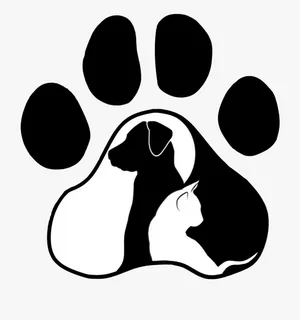
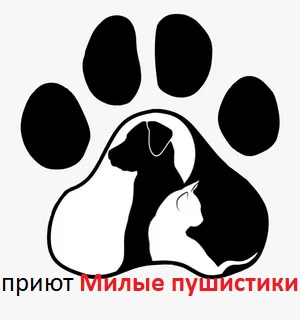
переделала тест. исправила анотации

Changed region(s): [[0.0, 0.8438, 1.0, 0.9375]]

diff --git a/src/main/java/pro/sky/command/service/handler/HandlerCallbackQuery.java b/src/main/java/pro/sky/command/service/handler/HandlerCallbackQuery.java
@@ -9,6 +9,8 @@ import pro.sky.command.service.CheckedService;
 import pro.sky.command.service.KeyboardMakerService;
 import pro.sky.command.service.SendMessageService;
 
+import java.util.ArrayList;
+import java.util.Arrays;
 import java.util.List;
 
 import static pro.sky.command.constants.BotMessageEnum.*;
@@ -53,6 +55,10 @@ public class HandlerCallbackQuery {
         long chatId = update.getCallbackQuery().getMessage().getChatId();
 
         switch (callbackData) {
+            case "START":
+                log.debug("вызваа команда /START");
+                return service.sendMessage(chatId, "вы можете посмотреть информацию о приютах ", keyboardMaker.shelterKeyboard());
+
             case "CAT_SHELTER":
 
                 log.debug("вызваа команда /CAT_SHELTER");
@@ -99,36 +105,39 @@ public class HandlerCallbackQuery {
             //Меню взять питомца
             case "RULES_SHELTER":
                 log.debug("вызваа команда /RULES_SHELTER");
-                //здесь вставить метод для отправки файла
-                return service.sendMessageWithReplaceKeyboard(chatId, RULES_SHELTER.getMessage(), messageId, keyboardMaker.takePetKeyboard(chatId));
+                return new ArrayList<>(Arrays.asList(service.sendMessageWithReplaceKeyboard(chatId, RULES_SHELTER.getMessage(), messageId, keyboardMaker.takePetKeyboard(chatId)),
+                        service.sendPhoto(chatId, RULES_SHELTER,null, null)));
             case "DOCUMENTS":
                 log.debug("вызваа команда /DOCUMENTS");
-                //здесь вставить метод для отправки файла
-                return service.sendMessageWithReplaceKeyboard(chatId, DOCUMENTS.getMessage(), messageId, keyboardMaker.takePetKeyboard(chatId));
+                return new ArrayList<>(Arrays.asList(service.sendMessageWithReplaceKeyboard(chatId, DOCUMENTS.getMessage(), messageId, keyboardMaker.takePetKeyboard(chatId)),
+                        service.sendPhoto(chatId, DOCUMENTS,null, null)));
             case "TRANSPORTATION":
                 log.debug("вызваа команда /TRANSPORTATION");
-                //здесь вставить метод для отправки файла
-                return service.sendMessageWithReplaceKeyboard(chatId, TRANSPORTATION.getMessage(), messageId, keyboardMaker.takePetKeyboard(chatId));
+                return new ArrayList<>(Arrays.asList(service.sendMessageWithReplaceKeyboard(chatId, TRANSPORTATION.getMessage(), messageId, keyboardMaker.takePetKeyboard(chatId)),
+                        service.sendPhoto(chatId, TRANSPORTATION,null, null)));
             case "DOG_HANDLERS":
                 log.debug("вызваа команда /DOG_HANDLERS");
-                //здесь вставить метод для отправки файла
-                return service.sendMessageWithReplaceKeyboard(chatId, DOG_HANDLERS.getMessage(), messageId, keyboardMaker.takePetKeyboard(chatId));
+                return new ArrayList<>(Arrays.asList(service.sendMessageWithReplaceKeyboard(chatId, DOG_HANDLERS.getMessage(), messageId, keyboardMaker.takePetKeyboard(chatId)),
+                        service.sendPhoto(chatId, DOG_HANDLERS,null, null)));
             case "REASONS_REFUSAL":
                 log.debug("вызваа команда /REASONS_REFUSAL");
-                //здесь вставить метод для отправки файла
-                return service.sendMessageWithReplaceKeyboard(chatId, REASONS_REFUSAL.getMessage(), messageId, keyboardMaker.takePetKeyboard(chatId));
+                return new ArrayList<>(Arrays.asList(service.sendMessageWithReplaceKeyboard(chatId, REASONS_REFUSAL.getMessage(), messageId, keyboardMaker.takePetKeyboard(chatId)),
+                        service.sendPhoto(chatId, REASONS_REFUSAL, null, null)));
             case "SETTLE":
                 log.debug("вызваа команда /SETTLE");
                 return service.sendMessageWithReplaceKeyboard(chatId, SETTLE.getMessage(), messageId, keyboardMaker.settleKeyboard());
             case "LITTLE_PET":
                 log.debug("вызваа команда /LITTLE_PET");
-                return service.sendMessageWithReplaceKeyboard(chatId, LITTLE_PET.getMessage(), messageId, keyboardMaker.takePetKeyboard(chatId));
+                return new ArrayList<>(Arrays.asList(service.sendMessageWithReplaceKeyboard(chatId, LITTLE_PET.getMessage(), messageId, keyboardMaker.takePetKeyboard(chatId)),
+                        service.sendPhoto(chatId, LITTLE_PET, null, null)));
             case "BIG_PET":
                 log.debug("вызваа команда /BIG_PET");
-                return service.sendMessageWithReplaceKeyboard(chatId, BIG_PET.getMessage(), messageId, keyboardMaker.takePetKeyboard(chatId));
+                return new ArrayList<>(Arrays.asList(service.sendMessageWithReplaceKeyboard(chatId, BIG_PET.getMessage(), messageId, keyboardMaker.takePetKeyboard(chatId)),
+                        service.sendPhoto(chatId, BIG_PET, null, null)));
             case "DISABILITY_PET":
                 log.debug("вызваа команда /DISABILITY_PET");
-                return service.sendMessageWithReplaceKeyboard(chatId, DISABILITY_PET.getMessage(), messageId, keyboardMaker.takePetKeyboard(chatId));
+                return new ArrayList<>(Arrays.asList(service.sendMessageWithReplaceKeyboard(chatId, DISABILITY_PET.getMessage(), messageId, keyboardMaker.takePetKeyboard(chatId)),
+                        service.sendPhoto(chatId, DISABILITY_PET, null, null)));
 
             case "PHOTO":
                 log.debug("вызваа команда /PHOTO");
@@ -151,21 +160,22 @@ public class HandlerCallbackQuery {
                     return service.sendMessage(chatId, BEHAVIOR.getMessage(), keyboardMaker.reportKeyboard());
                 }
 
-                return service.sendMessage(chatId,"Пользователь с таким номером не найден. Обратитесь к волантеру.", keyboardMaker.reportKeyboard());
+                return service.sendMessage(chatId, "Пользователь с таким номером не найден. Обратитесь к волантеру.", keyboardMaker.reportKeyboard());
             case "TEST_PERIOD":
                 log.debug("вызваа команда /TEST_PERIOD");
-               List<String> count = checkedService.getReportCount(chatId);
-                if (count==null){
-                    return service.sendMessage(chatId, " Ознакомьтесь с информацией о тестовом периоде.\n   "+
-                            TEST_PERIOD.getMessage()+"\n оставшийся тестовый период не удалось получить." +
+                List<String> count = checkedService.getReportCount(chatId);
+                if (count == null) {
+                    return service.sendMessage(chatId, " Ознакомьтесь с информацией о тестовом периоде.\n   " +
+                            TEST_PERIOD.getMessage() + "\n оставшийся тестовый период не удалось получить." +
                             " Если вы зарегистрированы и взяли питомца обратитесь к волонтерам и опишите проблему. ", keyboardMaker.reportKeyboard());
                 }
-                StringBuilder answer =new StringBuilder("\n Вам осталось прислать " );
-                for (String s:count) {
+                StringBuilder answer = new StringBuilder("\n Вам осталось прислать ");
+                for (String s : count) {
                     answer.append(s);
-                }answer.append(" Верно заполненных и подтвержденных отчетов. Если вы обнаружили не точность сообщите волонтеру.");
+                }
+                answer.append(" Верно заполненных и подтвержденных отчетов. Если вы обнаружили не точность сообщите волонтеру.");
 
-                return service.sendMessage(chatId, TEST_PERIOD.getMessage()+answer , keyboardMaker.reportKeyboard());
+                return service.sendMessage(chatId, TEST_PERIOD.getMessage() + answer, keyboardMaker.reportKeyboard());
             default:
                 return service.sendMessage(chatId, "Извините, данная команда пока не поддерживается.", keyboardMaker.startKeyboard());
         }

diff --git a/src/main/java/pro/sky/command/service/handler/HandlerMessages.java b/src/main/java/pro/sky/command/service/handler/HandlerMessages.java
@@ -6,6 +6,7 @@ import org.telegram.telegrambots.meta.api.methods.CopyMessage;
 import org.telegram.telegrambots.meta.api.objects.Message;
 import pro.sky.command.constants.Const;
 import pro.sky.command.model.Notification;
+import pro.sky.command.model.Owner;
 import pro.sky.command.repository.NotificationRepository;
 import pro.sky.command.service.*;
 
@@ -54,6 +55,9 @@ public class HandlerMessages {
 
         if (text.equals(START.getNameButton())) {
             checkedService.clearPressButton(chatId);
+            if (checkedService.isOwnerHavePet(chatId)) {
+                return service.sendMessage(chatId, "Вы можете отправить отчет о питомце или посмотреть информацию о приютах", keyboardMaker.startKeyboardForRegistered());
+            }
             return service.sendMessage(chatId, START.getMessage(), keyboardMaker.startKeyboard());
         }
 
@@ -87,53 +91,46 @@ public class HandlerMessages {
         }
 
 
+        if (checkedService.checkReportPress(chatId)) {
+            int firstDelimiter = text.indexOf(' ');
+            String dataReport = " ";
+            String petId = " ";
+            if (firstDelimiter > 0) {
+                dataReport = text.substring(0, firstDelimiter);
+                text = text.substring(firstDelimiter + 1);
+            }
+            int secondDelimiter = text.indexOf(' ');
+            if (secondDelimiter > 0) {
+                petId = text.substring(0, secondDelimiter);
+                text = text.substring(secondDelimiter + 1);
+            }
+            if (dataReport.matches(Const.PATTERN_DATA) & petId.matches(Const.PATTERN_PET_ID)) {
+                return service.sendMessage(chatId, reportService.addReport(chatId, dataReport, petId, text), keyboardMaker.reportKeyboard());
+            }
+        }
 
-        if(checkedService.checkReportPress(chatId))
 
-    {
-        int firstDelimiter = text.indexOf(' ');
-        String dataReport = " ";
-        String petId = " ";
-        if (firstDelimiter > 0) {
-            dataReport = text.substring(0, firstDelimiter);
-            text = text.substring(firstDelimiter + 1);
+        if (checkedService.checkVolunteerButtonPress(chatId)) {
+            text = message.getFrom().getFirstName() + " идентификатор(номер чата) " + chatId + " спрашивает:   \n\n" + text;
+            notificationRepository.save(new Notification(chatId, text, messageId));
+            return service.sendMessage(Const.VOLUNTEER_CHAT_ID, text, null);
         }
-        int secondDelimiter = text.indexOf(' ');
-        if (secondDelimiter > 0) {
-            petId = text.substring(0, secondDelimiter);
-            text = text.substring(secondDelimiter + 1);
+        if (chatId.equals(Const.VOLUNTEER_CHAT_ID)) {
+            String textNotification = message.getReplyToMessage().getText();
+            Notification notification = notificationRepository.findByText(textNotification);
+            if (notification != null) {
+                notificationRepository.delete(notification);
+                return CopyMessage.builder()
+                        .messageId(messageId)
+                        .replyToMessageId(notification.getMessageId())
+                        .fromChatId(chatId)
+                        .chatId(notification.getId())
+                        .caption(text)
+                        .build();
+            }
         }
-        if (dataReport.matches(Const.PATTERN_DATA) & petId.matches(Const.PATTERN_PET_ID)) {
-            return service.sendMessage(chatId, reportService.addReport(chatId, dataReport, petId, text), keyboardMaker.reportKeyboard());
-        }
+
+        return service.sendMessage(chatId, " \"подтверждено\" или \"отклонено\"Бот понимает сообщения только в определенном формате." +
+                " При нажатии кнопки, вы можете посмотреть, что от вас ожидает бот. Начните с нажатия кнопки главное меню.", null);
     }
-
-
-        if(checkedService.checkVolunteerButtonPress(chatId))
-
-    {
-        text = message.getFrom().getFirstName() + " идентификатор(номер чата) " + chatId + " спрашивает:   \n\n" + text;
-        notificationRepository.save(new Notification(chatId, text, messageId));
-        return service.sendMessage(Const.VOLUNTEER_CHAT_ID, text, null);
-    }
-        if(chatId.equals(Const.VOLUNTEER_CHAT_ID))
-
-    {
-        String textNotification = message.getReplyToMessage().getText();
-        Notification notification = notificationRepository.findByText(textNotification);
-        if (notification != null) {
-            notificationRepository.delete(notification);
-            return CopyMessage.builder()
-                    .messageId(messageId)
-                    .replyToMessageId(notification.getMessageId())
-                    .fromChatId(chatId)
-                    .chatId(notification.getId())
-                    .caption(text)
-                    .build();
-        }
-    }
-
-        return service.sendMessage(chatId," \"подтверждено\" или \"отклонено\"Бот понимает сообщения только в определенном формате."+
-            " При нажатии кнопки, вы можете посмотреть, что от вас ожидает бот. Начните с нажатия кнопки главное меню.",null);
-}
 }

diff --git a/src/main/java/pro/sky/command/constants/BotMessageEnum.java b/src/main/java/pro/sky/command/constants/BotMessageEnum.java
@@ -10,11 +10,14 @@ public enum BotMessageEnum {
     HELP_MESSAGE("""
 
               Я бот Приюта для животных. Я расскажу Вам о приюте или помогу связаться с волонтерами.
+              
+                Помните выбрать любимца нельзя по фото, а можно только при личном общении.
+                 Поэтому наш бот не сможет заменить визит в питомник, а только лишь поможет узнать о приюте и его правилах.
 
             """, ""),
 
     START(" \"✅ Для дальнейшей работы выберите  хотите вы узнать о приюте кошек или собак.\n\n" +
-            "Воспользуйтесь клавиатурой, чтобы начать  \uD83D\uDC47", "Главное меню"),
+                      "Воспользуйтесь клавиатурой, чтобы начать  \uD83D\uDC47", "Главное меню"),
 
     CALL_VOLUNTEER("Ваш запрос важен для нас.\n" +
             "Напишите сообщением свой вопрос волонтеру."
@@ -48,7 +51,7 @@ public enum BotMessageEnum {
             "- *Изменение в поведении: отказ от старых привычек, приобретение новых*", "Отчет о питомце"),
 
     //меню информации о приюте
-    SHELTER_INFO("Вы можете почитать про наш приют", "Инфо"),
+    SHELTER_INFO("Вы можете почитать более подробную информацию о нашем приюте.", "Подробная информация"),
     SHELTER_DATA("вы можете посмотреть график работы и как нас найти", "график  работы и контакты"),
     TAKE_PASS("Напишите в чат сообщение где будет содержаться краткая информация о транспортном средстве. Волонтер свяжется с вами если информация будет не полной.\n" +
             "Если вы хотите запросить звонок отошлите в чат номер телефона\n без специальных знаков. Просто 11 цифр начиная с 8\n\n" +

diff --git a/src/test/java/pro/sky/command/controller/PetControllerTest.java b/src/test/java/pro/sky/command/controller/PetControllerTest.java
@@ -1,51 +1,29 @@
 package pro.sky.command.controller;
 
+import io.swagger.v3.oas.annotations.OpenAPIDefinition;
 import org.junit.Before;
 import org.junit.jupiter.api.Test;
-import org.junit.runner.RunWith;
-import org.mockito.Mock;
-import org.springframework.beans.factory.annotation.Autowired;
-import org.springframework.boot.test.autoconfigure.web.servlet.WebMvcTest;
 import org.springframework.boot.test.context.SpringBootTest;
 import org.springframework.http.MediaType;
-import org.springframework.test.context.junit4.SpringRunner;
-import org.springframework.test.web.servlet.MockMvc;
-import org.springframework.test.web.servlet.MvcResult;
+import org.springframework.test.annotation.DirtiesContext;
 import org.springframework.test.web.servlet.RequestBuilder;
 import org.springframework.test.web.servlet.request.MockMvcRequestBuilders;
-import org.springframework.test.web.servlet.setup.MockMvcBuilders;
-import pro.sky.command.repository.PetRepository;
-import pro.sky.command.service.PetService;
+@DirtiesContext(classMode = DirtiesContext.ClassMode.BEFORE_CLASS)
+@SpringBootTest(webEnvironment = SpringBootTest.WebEnvironment.RANDOM_PORT)
 
-import static org.springframework.test.web.servlet.result.MockMvcResultMatchers.status;
-
-@SpringBootTest
-@RunWith(SpringRunner.class)
-@WebMvcTest(PetController.class)
+@OpenAPIDefinition
 public class PetControllerTest {
-    @Autowired
-    private MockMvc mockMvc;
-    @Autowired
-    private PetRepository repository;
 
-    @Mock
-    private PetService petServiceMock;
 
-    @Before
-    public void setup() {
-        this.mockMvc = MockMvcBuilders.standaloneSetup(new PetController(petServiceMock)).build();
-    }
 
     @Test
-    public void ShouldReturnAddedPetEntry() throws Exception {
+    public void ShouldReturnAddedPetEntry(){
         RequestBuilder request = MockMvcRequestBuilders
                 .post("/")
                 .accept(MediaType.APPLICATION_JSON)
                 .content("{\"id\":1,\"name_pet\":\"Bob\",\"kind\":dog,\"owner_id\":1015168334}")
                 .contentType(MediaType.APPLICATION_JSON);
 
-        MvcResult result = mockMvc.perform(request)
-                .andExpect(status().isOk()).andReturn();
 
     }
     @Test

diff --git a/src/main/java/pro/sky/command/service/VolunteerService.java b/src/main/java/pro/sky/command/service/VolunteerService.java
@@ -15,7 +15,11 @@ import pro.sky.command.repository.ReportRepository;
 import java.util.ArrayList;
 import java.util.Arrays;
 import java.util.List;
-
+/**
+ * Класс для обработки полученных текстовых сообщений
+ *
+ * @autor Наталья Шилова
+ */
 @Service
 public class VolunteerService {
     private final NotificationRepository notificationRepository;
@@ -29,7 +33,11 @@ public class VolunteerService {
         this.petRepository = petRepository;
         this.service = service;
     }
-
+    /**
+     * Метод формирует сообщение с отчетом питомца в чат волонтеров. Создает временную запись в таблице Notification.
+     *
+     *@return возвращает лист с 6ю сообщениями в чат волонтеров.
+     */
     public Object getReport() {
         Report report = reportRepository.findAllUncheck();
         if (report == null) {
@@ -116,6 +124,7 @@ public class VolunteerService {
                     service.sendMessage(Const.VOLUNTEER_CHAT_ID, "Владелец успешно поздравлен.", null)));
         }
         if (text.compareToIgnoreCase("продлить") == 0) {
+            pet.setCorrectReportCount(pet.getCorrectReportCount() -10);
                    return new ArrayList<>(Arrays.asList(service.sendMessage(Long.valueOf(pet.getOwner().getChatId()),
                            Const.ANSWER_FAILED_TEST_PERIOD, null),
                     service.sendMessage(Const.VOLUNTEER_CHAT_ID, "Испытательный срок владельцеу питомца номер "+ petId+

diff --git a/src/main/java/pro/sky/command/service/CheckedService.java b/src/main/java/pro/sky/command/service/CheckedService.java
@@ -2,6 +2,7 @@ package pro.sky.command.service;
 
 import lombok.extern.slf4j.Slf4j;
 import org.springframework.stereotype.Service;
+import org.springframework.transaction.annotation.Transactional;
 import pro.sky.command.constants.BotMessageEnum;
 import pro.sky.command.constants.Const;
 import pro.sky.command.model.Owner;
@@ -13,6 +14,7 @@ import java.util.List;
 
 @Service
 @Slf4j
+@Transactional
 public class CheckedService {
     //для запоминания какая кнопка в каком чате нажата
 
@@ -93,4 +95,13 @@ public class CheckedService {
         }
         return counts;
     }
+
+    public Boolean isOwnerHavePet(long chatId) {
+        Owner owner = ownerRepository.findById(String.valueOf(chatId)).orElse(null);
+        if (owner == null){
+            return false;
+                    }
+        return !owner.getPets().isEmpty();
+    }
 }
+

diff --git a/src/test/java/pro/sky/command/service/TelegramBotListenerTest.java b/src/test/java/pro/sky/command/service/TelegramBotListenerTest.java
@@ -19,6 +19,7 @@ import pro.sky.command.constants.ConstTest;
 import pro.sky.command.model.Owner;
 import pro.sky.command.repository.OwnerRepository;
 
+import java.util.ArrayList;
 import java.util.Arrays;
 import java.util.Optional;
 
@@ -77,6 +78,7 @@ class TelegramBotListenerTest {
 
         message.setText(ConstTest.BUTTON_MENU);
         Owner owner = new Owner(ConstTest.CHAT_ID, ConstTest.NAME);
+        owner.setPets(new ArrayList<>());
         ownerRepository.save(owner);
         update.setMessage(message);
 

diff --git a/src/main/java/pro/sky/command/service/KeyboardMakerService.java b/src/main/java/pro/sky/command/service/KeyboardMakerService.java
@@ -23,7 +23,7 @@ public class KeyboardMakerService {
     }
 
     public List<List<InlineKeyboardButton>> startKeyboardForRegistered() {
-        return Arrays.asList(Arrays.asList(getButton(PET_REPORT)));
+        return Arrays.asList(Arrays.asList(getButton(PET_REPORT)),Arrays.asList(getButton(START)));
     }
 
     public List<List<InlineKeyboardButton>> shelterKeyboard() {

diff --git a/src/main/java/pro/sky/command/service/TelegramBotListener.java b/src/main/java/pro/sky/command/service/TelegramBotListener.java
@@ -148,7 +148,7 @@ public class TelegramBotListener extends TelegramLongPollingBot {
 
 
     @Scheduled(cron = " 0 0 12 * * *")
-    private void sendReminderReport() {
+    public void sendReminderReport() {
         List<Pet> pets = reportService.checkReportData();
         if (!pets.isEmpty()) {
             List<SendMessage> sends = new ArrayList<>(pets.size());
